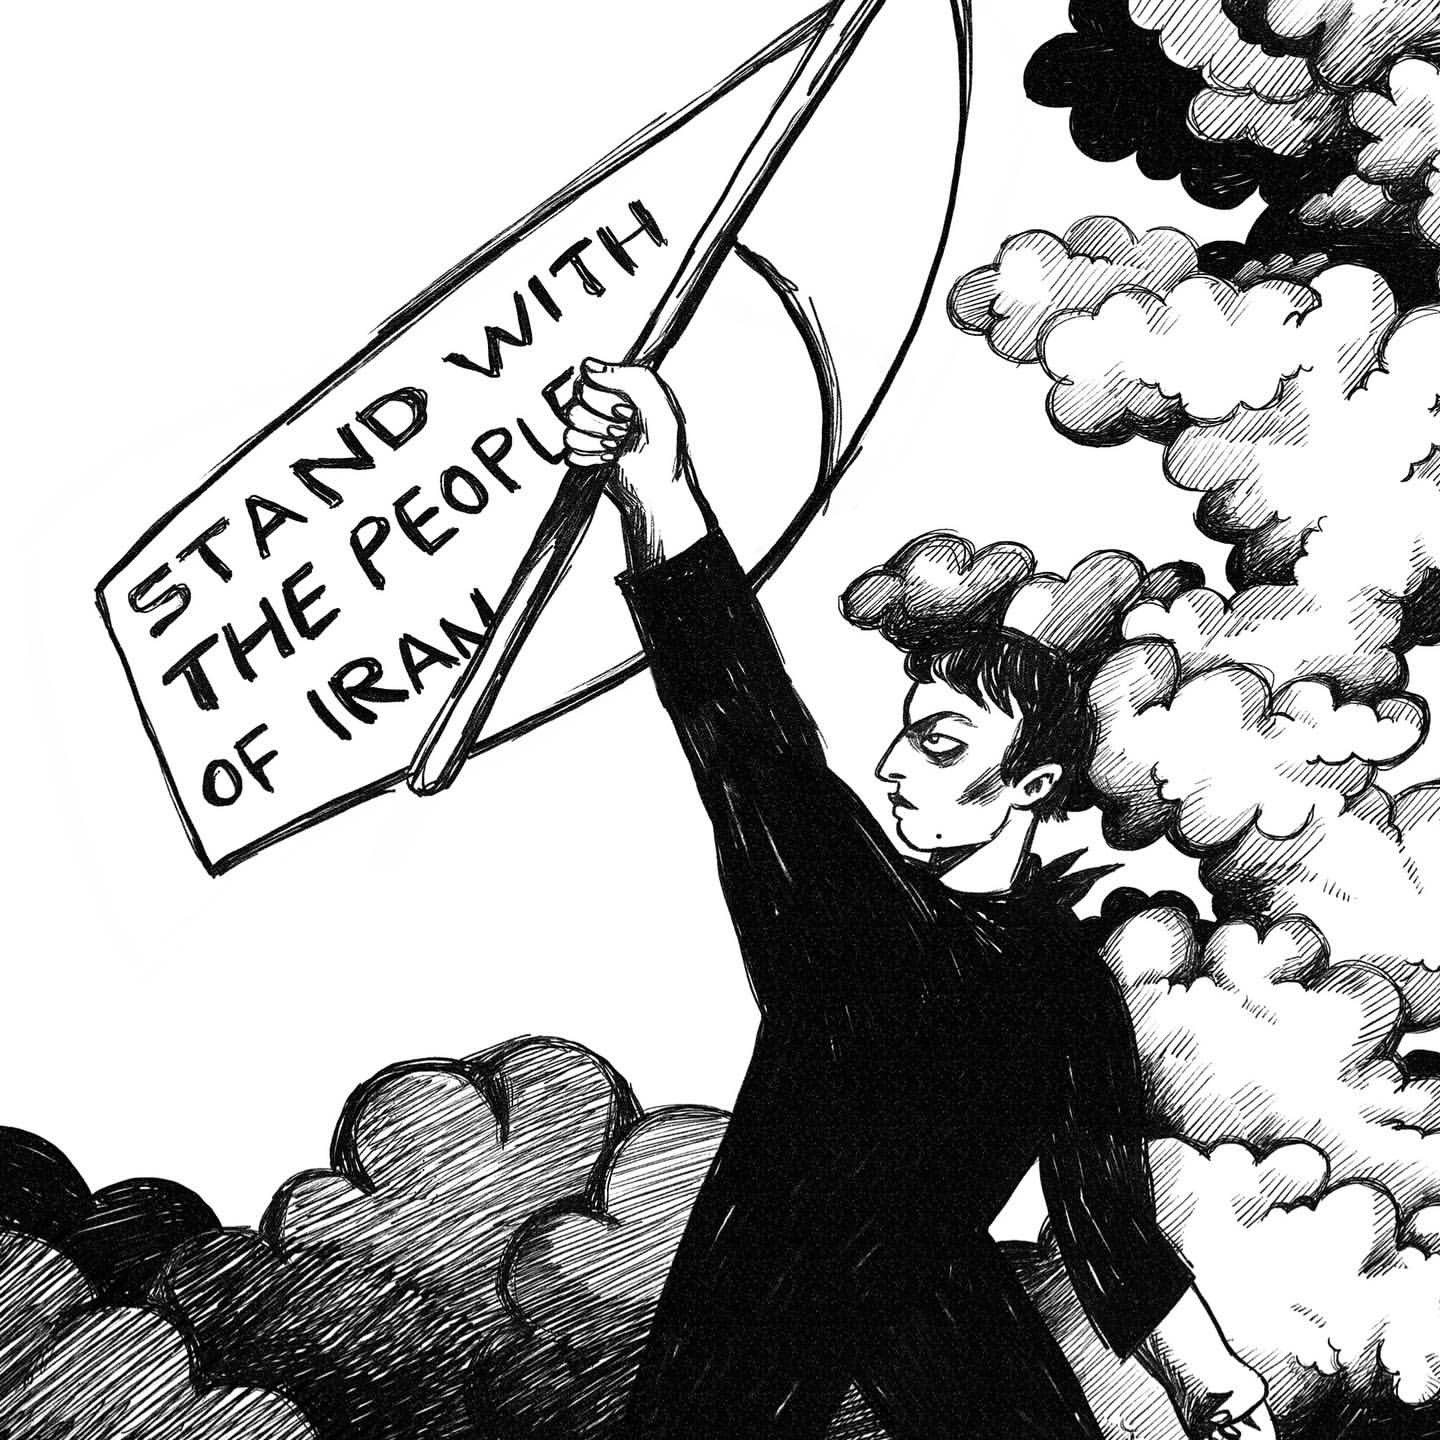
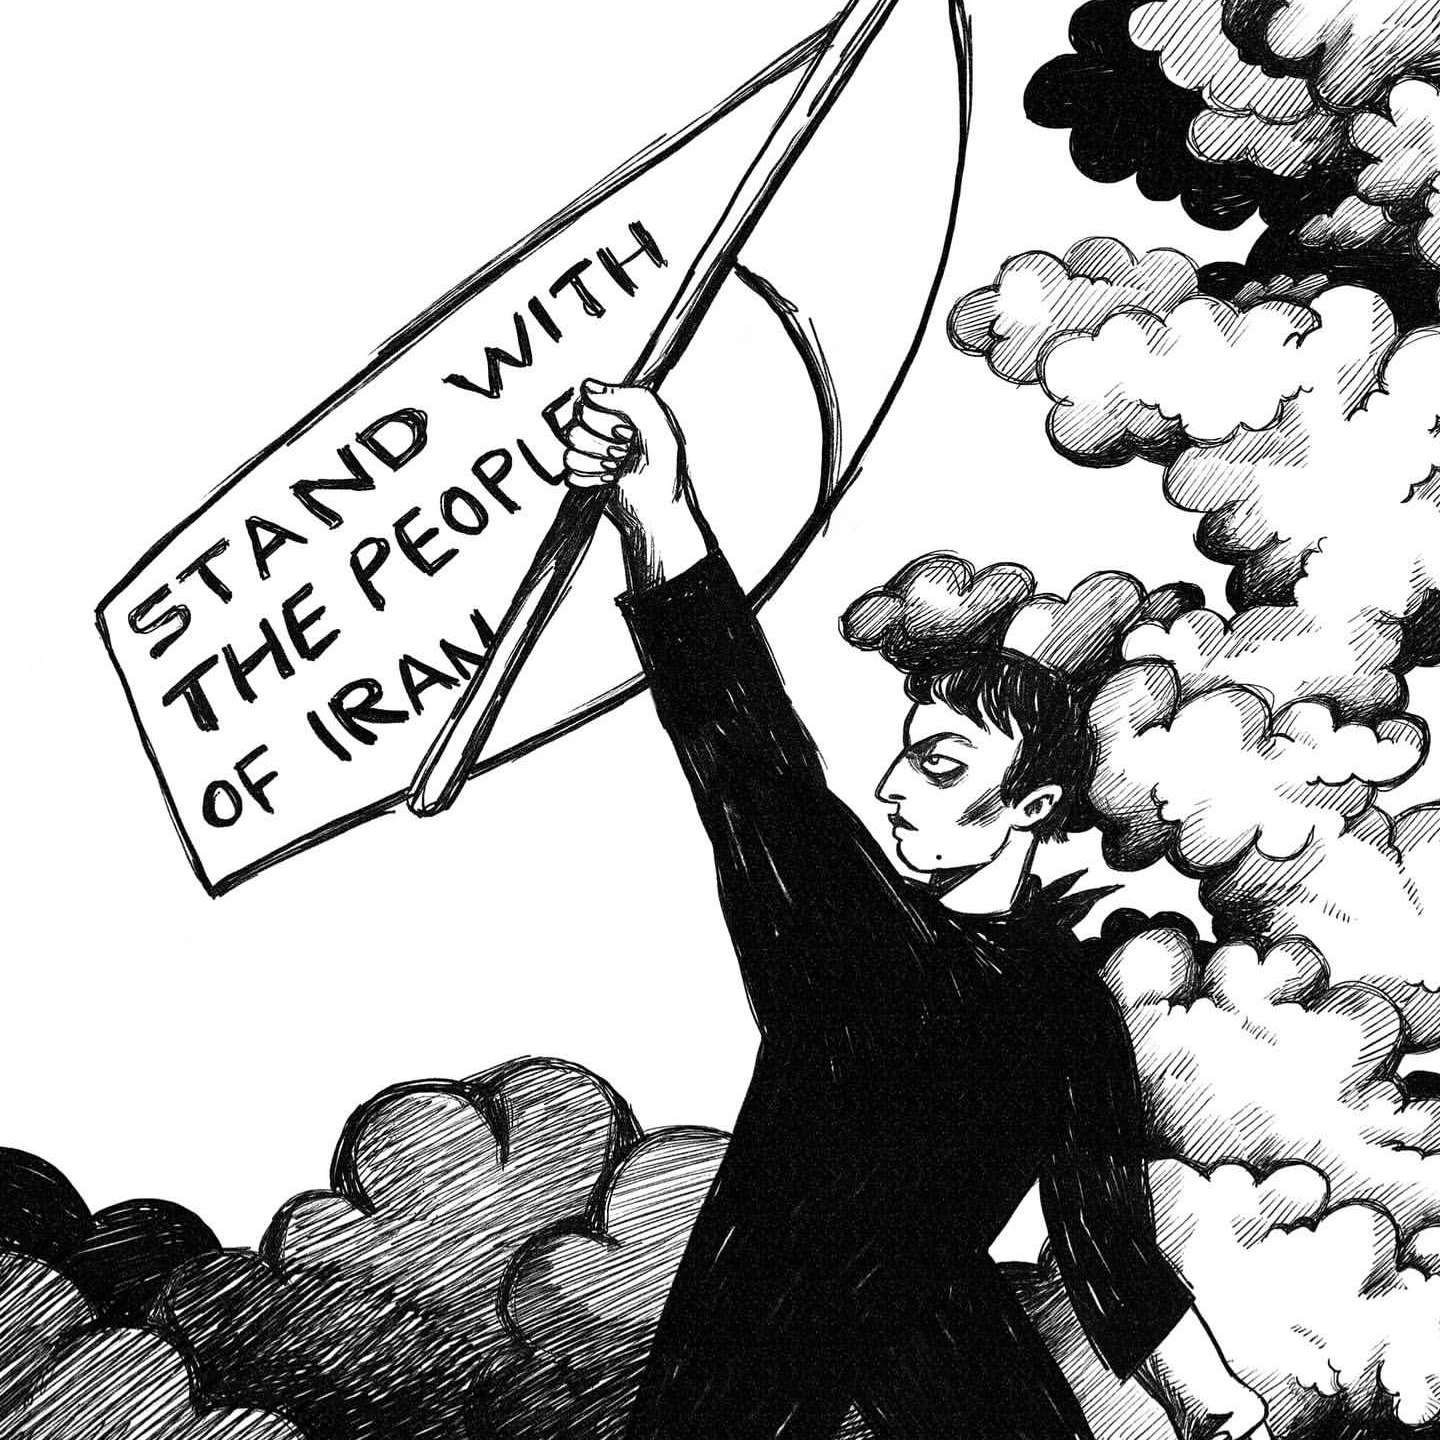
stand with us

diff --git a/public/index.html b/public/index.html
@@ -18,12 +18,12 @@
     content="https://raw.githubusercontent.com/lrhm/petition-for-iran/master/public/assets/20.jpeg">
 
   <!-- Facebook Meta Tags -->
-  <meta property="og:url" content="https://petition-for-iran.vercel.app/">
+  <meta property="og:url" content="https://petition-for-iran.vercel.app/freedom">
   <meta property="og:type" content="website">
   <meta property="og:title" content="Woman Life Freedom Revolution">
   <meta property="og:description" content="Please help Iranians in their fight for Freedom">
   <meta property="og:image"
-    content="https://raw.githubusercontent.com/lrhm/petition-for-iran/master/public/assets/20.jpeg">
+    content="https://raw.githubusercontent.com/lrhm/petition-for-iran/master/public/assets/stand_with_us.jpeg">
 
   <!-- Twitter Meta Tags -->
   <meta name="twitter:title" content="Woman Life Freedom Revolution">
